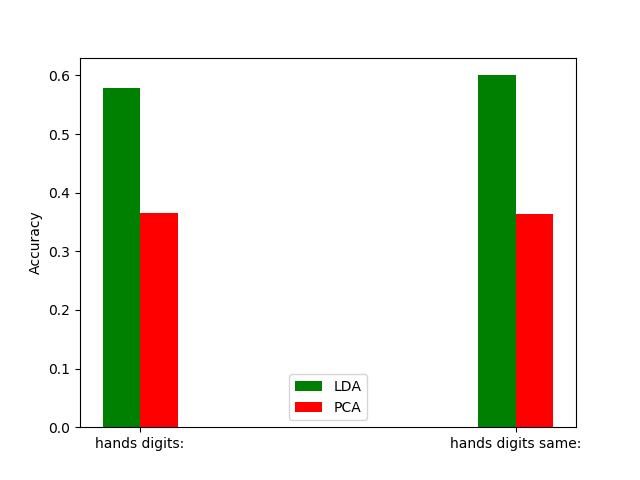
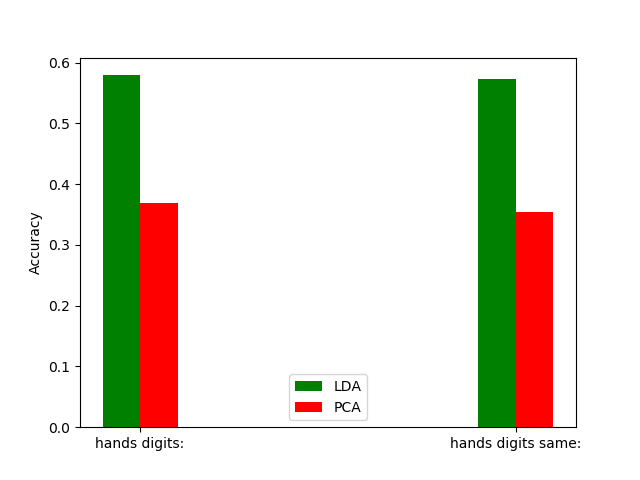
refactor and statstical analysis draft

diff --git a/src/postprocessing/processResults.py b/src/postprocessing/processResults.py
@@ -1,10 +1,11 @@
-from postprocessing.saveTexTable import SaveTexTable
-from postprocessing.savePlot import SavePlot
-from postprocessing.statiscalAnalysis import StatiscalAnalysis
-from postprocessing.utils import getFirstItemFromDict
-#from saveTexTable import SaveTexTable
-#from savePlot import SavePlot
-#from anovaAnalysis import AnovaAnalysis
+#from postprocessing.saveTexTable import SaveTexTable
+#from postprocessing.savePlot import SavePlot
+#from postprocessing.statiscalAnalysis import StatiscalAnalysis
+#from postprocessing.utils import getFirstItemFromDict
+from saveTexTable import SaveTexTable
+from savePlot import SavePlot
+from statiscalAnalysis import StatiscalAnalysis
+from utils import getFirstItemFromDict
 
 import numpy as np
 
@@ -16,25 +17,25 @@ class ProcessResults:
         self.statiscal = StatiscalAnalysis()
 
 
-    def process(self, results, classifierName):
-        labels = self.getExtractorsLabels(results)
+    def process(self, results, cllassifierName):
+        labels = self.getDatabasesLabels(results)
 
-        classifiersResult = self.getDictWith(results, self.avrgTestScoreSelector)
-        self.savePlot.saveBarPlot(classifiersResult, classifierName+"_accuracy_comparison",
+        extractorsResult = self.getDictWith(results, self.avrgTestScoreSelector)
+        self.savePlot.saveBarPlot(extractorsResult, cllassifierName+"_accuracy_comparison",
             labels, ylabel='Accuracy')
 
-        self.numberOfExtractionMethods = len(getFirstItemFromDict(classifiersResult))
-        self.numberOfClassifiers = len(classifiersResult.items())
+        self.numberOfDatabases = len(getFirstItemFromDict(extractorsResult))
+        self.numberOfExtractors = len(extractorsResult.items())
 
         fitTimes = self.getDictWith(results, self.fitTimeSelector)
-        self.savePlot.saveBarPlot(fitTimes, classifierName+"_fit_time_comparison",
+        self.savePlot.saveBarPlot(fitTimes, cllassifierName+"_fit_time_comparison",
             labels, ylabel='Traning time',
             setLogScale=True)
 
-        self.saveTable.saveTable(results, self.avrgTestScoreSelector, classifierName+"_acc_table")
-        self.saveTable.saveTable(results, self.fitTimeSelector, classifierName+"_fit_time_table")
+        self.saveTable.saveTable(results, self.avrgTestScoreSelector, cllassifierName+"_acc_table")
+        self.saveTable.saveTable(results, self.fitTimeSelector, cllassifierName+"_fit_time_table")
 
-        self.doStatisticalAnalysis(results, classifierName)
+        self.doStatisticalAnalysis(results, cllassifierName)
 
 
     def avrgTestScoreSelector(self, scores):
@@ -52,70 +53,137 @@ class ProcessResults:
     def getDictWith(self, results, selector):
         result = {}
 
-        for _, extractionResult in results.items():
-            for classifierName, scores in extractionResult.items():
-                if classifierName in result:
-                    result[classifierName].append(selector(scores))
+        for _, databaseResult in results.items():
+            for extractorName, scores in databaseResult.items():
+                if extractorName in result:
+                    result[extractorName].append(selector(scores))
                 else:
-                    result[classifierName] = [selector(scores)]
+                    result[extractorName] = [selector(scores)]
 
         return result
 
 
-    def getExtractorsLabels(self, results):
+    def getDatabasesLabels(self, results):
         labels = []
 
-        for extractorName, _ in results.items():
+        for databaseName, _ in results.items():
+            labels.append(databaseName)
+
+        return labels
+
+
+    def getExtractorsLabels(self, results):
+        labels = []
+        train_score = self.getDictWith(results, self.completeTestScoreSelector)
+
+        for extractorName, _ in train_score.items():
             labels.append(extractorName)
 
         return labels
 
 
-    def getClassifiersLabels(self, results):
-        labels = []
-        train_score = self.getDictWith(results, self.completeTestScoreSelector)
+    def doStatisticalAnalysis(self, results, cllassifierName):
+        errorTables = self.getErrorTableForAllExtractors(results)
+        extractorsLabels = self.getExtractorsLabels(results)
+        databaseLabels = self.getDatabasesLabels(results)
 
-        for classifierName, _ in train_score.items():
-            labels.append(classifierName)
-
-        return labels
-
-
-    def doStatisticalAnalysis(self, results):
-        errorTables = self.getErrorTableForAllClassifiers(results)
-        classifiersLabels = self.getClassifiersLabels(results)
-        extractorLabels = self.getExtractorsLabels(results)
-
-        self.saveTableWithPvalie(results, errorTables, classifiersLabels, extractorLabels, classifierName)
+        self.saveTableWithPvalie(results, errorTables, extractorsLabels,
+            databaseLabels, cllassifierName)
 
 
-    def saveTableWithPvalie(self, results, errorTables, classifiersLabels, extractorLabels, classifierName):
+    def saveTableWithPvalie(self, results, errorTables, extractorsLabels, databaseLabels, extractorName):
         tableToSave = [["feature extraction method"], ["p-value"], ["value of statistic F"]]
         for name, _ in getFirstItemFromDict(results).items():
             tableToSave[0].append(name)
 
-        for classifierName, errorTableForClassfier in zip(classifiersLabels, errorTables):
-            statistic, pvalue = self.statiscal.test_null_hipotesis(classifierName,
-                extractorLabels, errorTableForClassfier)
+        for extractorName, errorTableForClassfier in zip(extractorsLabels, errorTables):
+            statistic, pvalue = self.statiscal.test_null_hipotesis(extractorName,
+                databaseLabels, errorTableForClassfier)
             tableToSave[1].append('{:7e}'.format(pvalue))
             tableToSave[2].append('{0:.2f}'.format(statistic))
 
-        self.saveTable.saveTexTable(tableToSave, classifierName+"_pvalues")
+        self.saveTable.saveTexTable(tableToSave, extractorName+"_pvalues")
 
 
-    def getErrorTableForAllClassifiers(self, results):
+    def getErrorTableForAllExtractors(self, results):
         train_score = self.getDictWith(results, self.completeTestScoreSelector)
         errorTables = []
 
-        L = self.numberOfClassifiers
+        L = self.numberOfExtractors
         K = 10 #number of folds
         numberOfSamplesInFold = 206
 
-        for classifierName, scoresForAllExtractionMethos in train_score.items():
+        for extractorName, scoresForDatabases in train_score.items():
             toAdd = []
-            for i, extractionTrainScore in zip(range(self.numberOfExtractionMethods), scoresForAllExtractionMethos):
-                elem = ((np.ones(extractionTrainScore.shape) - extractionTrainScore)*numberOfSamplesInFold).astype(int).tolist()
+            for i, databaseTrainScore in zip(range(self.numberOfDatabases), scoresForDatabases):
+                elem = ((np.ones(databaseTrainScore.shape) - databaseTrainScore)*numberOfSamplesInFold).astype(int).tolist()
                 toAdd.append(elem)
             errorTables.append(toAdd)
 
         return errorTables
+
+
+
+
+if __name__ == "__main__":
+    """
+    arg = {'PCA': {'KNN': {'fit_time': np.array([0.00968719, 0.0080564 , 0.0080688 , 0.00797415, 0.00798082,
+       0.00798798, 0.00797248, 0.0079987 , 0.00809264, 0.00801897]), 'score_time': np.array([0.11342382, 0.11434889, 0.11300707, 0.10947371, 0.11200714,
+       0.10977364, 0.11077929, 0.11133409, 0.11019111, 0.11045718]), 'test_score': np.array([0.69411765, 0.63905325, 0.62874251, 0.66666667, 0.70121951,
+       0.68292683, 0.70731707, 0.69512195, 0.67901235, 0.75776398]), 'train_score': np.array([0.81756757, 0.81498987, 0.81861092, 0.83434343, 0.81763122,
+       0.83109017, 0.82907133, 0.81763122, 0.8219086 , 0.82740094])}, 'NaiveBayes': {'fit_time': np.array([0.00779319, 0.00751185, 0.00731277, 0.00751424, 0.00730729,
+       0.00734282, 0.00748038, 0.00731277, 0.00729465, 0.00743866]), 'score_time': np.array([0.00356483, 0.00325227, 0.00312686, 0.00316954, 0.00313854,
+       0.00308084, 0.00316453, 0.00308681, 0.00306582, 0.00312424]), 'test_score': np.array([0.66470588, 0.63313609, 0.66467066, 0.63636364, 0.69512195,
+       0.63414634, 0.58536585, 0.67073171, 0.65432099, 0.65838509]), 'train_score': np.array([0.81959459, 0.82309251, 0.83142279, 0.82828283, 0.83310902,
+       0.83580081, 0.82234186, 0.82368775, 0.82526882, 0.83008731])}, 'RandomForest': {'fit_time': np.array([0.19384027, 0.18281579, 0.19550157, 0.18748212, 0.18336797,
+       0.18250608, 0.19075036, 0.18655276, 0.18812203, 0.1872735 ]), 'score_time': np.array([0.00224757, 0.00223827, 0.00222588, 0.00221658, 0.00217295,
+       0.00218797, 0.00220132, 0.00217748, 0.00218844, 0.002177  ]), 'test_score': np.array([0.36470588, 0.39053254, 0.34131737, 0.38787879, 0.40243902,
+       0.31707317, 0.25      , 0.34146341, 0.37037037, 0.41614907]), 'train_score': np.array([0.99324324, 0.99594868, 0.99460553, 0.99461279, 0.99461642,
+       0.99461642, 0.99528937, 0.9986541 , 0.99663978, 0.99261249])}}, 'PCA with LBP': {'KNN': {'fit_time': np.array([0.01293945, 0.01088142, 0.01083732, 0.01108479, 0.0109129 ,
+       0.01089716, 0.01103973, 0.01085806, 0.01093102, 0.0110178 ]), 'score_time': np.array([0.17147684, 0.17231917, 0.16969657, 0.16598153, 0.16726708,
+       0.1670866 , 0.16702414, 0.16674972, 0.16383004, 0.1651361 ]), 'test_score': np.array([0.59411765, 0.66272189, 0.64670659, 0.61212121, 0.73170732,
+       0.64634146, 0.70731707, 0.68292683, 0.64197531, 0.68322981]), 'train_score': np.array([0.80675676, 0.80081026, 0.80107889, 0.80808081, 0.80686406,
+       0.80753701, 0.80417227, 0.80686406, 0.81653226, 0.80456682])}, 'NaiveBayes': {'fit_time': np.array([0.01051521, 0.00996041, 0.009866  , 0.00977707, 0.00977349,
+       0.00978661, 0.00982666, 0.00999451, 0.00987124, 0.00995779]), 'score_time': np.array([0.0042274 , 0.00423408, 0.00410175, 0.00416398, 0.00404572,
+       0.00448346, 0.00405574, 0.00404716, 0.00405455, 0.00400996]), 'test_score': np.array([0.66470588, 0.67455621, 0.62874251, 0.61212121, 0.67073171,
+       0.65243902, 0.65853659, 0.68292683, 0.63580247, 0.67701863]), 'train_score': np.array([0.73783784, 0.73396354, 0.73904248, 0.73602694, 0.72678331,
+       0.73687752, 0.73149394, 0.71870794, 0.7405914 , 0.73069174])}, 'RandomForest': {'fit_time': np.array([0.21763515, 0.21272755, 0.20606971, 0.21277308, 0.21760917,
+       0.2097652 , 0.21282101, 0.21377826, 0.22098899, 0.21546745]), 'score_time': np.array([0.00239491, 0.00228119, 0.00225902, 0.00239253, 0.00225139,
+       0.00245786, 0.0023675 , 0.00226903, 0.00226665, 0.00238013]), 'test_score': np.array([0.47058824, 0.43195266, 0.38922156, 0.46666667, 0.45121951,
+       0.48170732, 0.48780488, 0.43292683, 0.43209877, 0.44720497]), 'train_score': np.array([0.9972973 , 0.99324781, 0.99797707, 0.99461279, 0.99730821,
+       0.99596231, 0.99528937, 0.99461642, 0.99596774, 0.99529886])}}, 'Skeletonize': {'KNN': {'fit_time': np.array([0.02523923, 0.02404642, 0.02382016, 0.02381349, 0.02406764,
+       0.02396703, 0.02401781, 0.02386189, 0.02382421, 0.02394748]), 'score_time': np.array([0.31307387, 0.31047225, 0.30740094, 0.30311131, 0.30443645,
+       0.30214047, 0.30259013, 0.30279326, 0.29862142, 0.2986331 ]), 'test_score': np.array([0.55294118, 0.5739645 , 0.60479042, 0.54545455, 0.59756098,
+       0.5       , 0.59146341, 0.56707317, 0.61728395, 0.60248447]), 'train_score': np.array([0.71418919, 0.72113437, 0.72825354, 0.72525253, 0.73889637,
+       0.72341857, 0.73149394, 0.73216689, 0.72715054, 0.72196105])}, 'NaiveBayes': {'fit_time': np.array([0.01865077, 0.01486683, 0.01521802, 0.01571035, 0.01508522,
+       0.01482081, 0.01497293, 0.01490545, 0.0154326 , 0.01495671]), 'score_time': np.array([0.00765657, 0.00625992, 0.00611281, 0.00617146, 0.00604653,
+       0.0059762 , 0.00636744, 0.00608587, 0.00599027, 0.00597596]), 'test_score': np.array([0.67058824, 0.66272189, 0.73053892, 0.65454545, 0.57317073,
+       0.56707317, 0.62804878, 0.6402439 , 0.70987654, 0.66459627]), 'train_score': np.array([0.80405405, 0.75286968, 0.76803776, 0.74478114, 0.74764468,
+       0.75841184, 0.75841184, 0.76514132, 0.76276882, 0.75352586])}, 'RandomForest': {'fit_time': np.array([0.06118035, 0.0665102 , 0.0669384 , 0.06444669, 0.06543732,
+       0.06452489, 0.06570935, 0.064533  , 0.06400084, 0.06574678]), 'score_time': np.array([0.00237107, 0.00221944, 0.00233197, 0.00228906, 0.00231194,
+       0.00228381, 0.00231409, 0.00234342, 0.00243855, 0.00230813]), 'test_score': np.array([0.43529412, 0.56213018, 0.49101796, 0.44848485, 0.48170732,
+       0.51219512, 0.51829268, 0.52439024, 0.47530864, 0.50310559]), 'train_score': np.array([0.99324324, 0.99392302, 0.99527984, 0.996633  , 0.99596231,
+       0.99798116, 0.99663526, 0.99596231, 0.99462366, 0.99529886])}}}
+    """
+    arg = {'hands digits:': {'LDA': {'fit_time': np.array([4.84076834, 4.69979095, 4.8373127 , 5.04802823, 4.90385699,
+       4.79904532, 5.28576994, 5.11618185, 5.07327867, 5.03035331]), 'score_time': np.array([0.00514603, 0.00500011, 0.00509238, 0.00497437, 0.00490928,
+       0.00491714, 0.0063436 , 0.004807  , 0.00476003, 0.00519109]), 'test_score': np.array([0.54761905, 0.55238095, 0.57142857, 0.6       , 0.61722488,
+       0.58653846, 0.55882353, 0.58208955, 0.59      , 0.585     ]), 'train_score': np.array([0.97516199, 0.97516199, 0.97840173, 0.97462203, 0.97517539,
+       0.9768069 , 0.97631862, 0.97581945, 0.97583244, 0.97690655])}, 'PCA': {'fit_time': np.array([4.95297956, 4.87015963, 5.01747727, 4.94189501, 5.29439402,
+       5.00581288, 5.21516919, 5.08671165, 5.05369806, 4.91486049]), 'score_time': np.array([0.01190424, 0.00875854, 0.01200867, 0.01245308, 0.00860095,
+       0.00906658, 0.00920987, 0.00853372, 0.00841236, 0.00841546]), 'test_score': np.array([0.34761905, 0.38571429, 0.38095238, 0.4047619 , 0.38755981,
+       0.37019231, 0.35784314, 0.33830846, 0.315     , 0.395     ]), 'train_score': np.array([0.4087473 , 0.38552916, 0.39632829, 0.42980562, 0.39719374,
+       0.39536138, 0.39558665, 0.38259001, 0.39742213, 0.41245972])}}, 'hands digits same:': {'LDA': {'fit_time': np.array([4.70766187, 4.69797611, 4.79271507, 4.74328542, 4.77852631,
+       4.76960659, 4.80923915, 4.76882744, 4.92569876, 4.80310774]), 'score_time': np.array([0.00496817, 0.00506234, 0.00505853, 0.00498676, 0.00503922,
+       0.0079689 , 0.00485849, 0.00485182, 0.00487876, 0.00495815]), 'test_score': np.array([0.57142857, 0.56190476, 0.58095238, 0.56190476, 0.57894737,
+       0.55288462, 0.57843137, 0.56218905, 0.6       , 0.58      ]), 'train_score': np.array([0.97516199, 0.97570194, 0.97948164, 0.97678186, 0.97625472,
+       0.97626753, 0.97416577, 0.97850618, 0.97583244, 0.97475832])}, 'PCA': {'fit_time': np.array([4.77007341, 4.79104519, 4.73034263, 4.84283543, 4.63828349,
+       4.63713813, 4.66034746, 4.6785183 , 4.67736244, 4.67950535]), 'score_time': np.array([0.00867462, 0.00858235, 0.00868893, 0.00869107, 0.00841784,
+       0.00849462, 0.00834131, 0.00824142, 0.00819874, 0.00832367]), 'test_score': np.array([0.33809524, 0.34285714, 0.35238095, 0.33333333, 0.30143541,
+       0.35576923, 0.36764706, 0.37313433, 0.345     , 0.435     ]), 'train_score': np.array([0.35043197, 0.37850972, 0.34773218, 0.36663067, 0.34700486,
+       0.3425027 , 0.36006459, 0.40300913, 0.38238453, 0.41460795])}}}
+
+
+    p = ProcessResults()
+    p.process(arg, "Svm")
+    #p.doStatisticalAnalysis(arg)

diff --git a/src/postprocessing/statiscalAnalysis.py b/src/postprocessing/statiscalAnalysis.py
@@ -1,6 +1,7 @@
 import scipy.stats as stats
 import numpy as np
-from statsmodels.stats.multicomp import pairwise_tukeyhsd
+#from statsmodels.stats.multicomp import pairwise_tukeyhsd
+import scikit_posthocs as sp
 
 class StatiscalAnalysis:
 
@@ -26,6 +27,7 @@ class StatiscalAnalysis:
             print("Post hoc testing skipped due to not rejected ANOVA H0 hypothesis (u1 = u2 = u3)")
         else:
             self.doPostHocTesting(errorTable, extractorLabels)
+        self.doPostHocTesting(errorTable, extractorLabels) # to remove
         print("="*40)
 
         return statistic, pvalue
@@ -44,10 +46,13 @@ class StatiscalAnalysis:
 
 
     def doPostHocTesting(self, errorTable, extractorLabels):
-        data, labels = self.convertErrorTableToSingleVector(errorTable, extractorLabels)
-        print(pairwise_tukeyhsd(data, labels))
+        print("errorTable: ", errorTable)
+        res = sp.posthoc_nemenyi_friedman(errorTable)
+        print("res:")
+        print(res)
 
 
+    """
     def convertErrorTableToSingleVector(self, errorTable, extractorLabels):
         errorTable = np.array(errorTable)
         result = errorTable.flatten()
@@ -61,3 +66,4 @@ class StatiscalAnalysis:
         labels = np.array(labels)
 
         return result, labels
+    """

diff --git a/doc/tables/Svm_fit_time_table.tex b/doc/tables/Svm_fit_time_table.tex
@@ -2,8 +2,8 @@
   \hline
     & LDA & PCA \\
   \hline
-  hands digits: & 4.71 & 4.66 \\
+  hands digits: & 4.96 & 5.04 \\
   \hline
-  hands digits same: & 4.68 & 4.63 \\
+  hands digits same: & 4.78 & 4.71 \\
   \hline
 \end{tabular}

diff --git a/doc/tables/PCA_pvalues.tex b/doc/tables/PCA_pvalues.tex
@@ -1,0 +1,9 @@
+\begin{tabular}{|r|l|l|}
+  \hline
+  feature extraction method & LDA & PCA \\
+  \hline
+  p-value & 1.000000e+00 & 6.703200e-01 \\
+  \hline
+  value of statistic F & 0.00 & 0.80 \\
+  \hline
+\end{tabular}

diff --git a/src/postprocessing/savePlot.py b/src/postprocessing/savePlot.py
@@ -1,4 +1,5 @@
-from postprocessing.utils import getFirstItemFromDict
+#from postprocessing.utils import getFirstItemFromDict
+from utils import getFirstItemFromDict
 
 import matplotlib.pyplot as plt
 import numpy as np

diff --git a/src/postprocessing/saveTexTable.py b/src/postprocessing/saveTexTable.py
@@ -1,4 +1,5 @@
-from postprocessing.utils import getFirstItemFromDict
+#from postprocessing.utils import getFirstItemFromDict
+from utils import getFirstItemFromDict
 
 class SaveTexTable:
 

diff --git a/doc/tables/Svm_acc_table.tex b/doc/tables/Svm_acc_table.tex
@@ -4,6 +4,6 @@
   \hline
   hands digits: & 0.58 & 0.37 \\
   \hline
-  hands digits same: & 0.60 & 0.36 \\
+  hands digits same: & 0.57 & 0.35 \\
   \hline
 \end{tabular}
